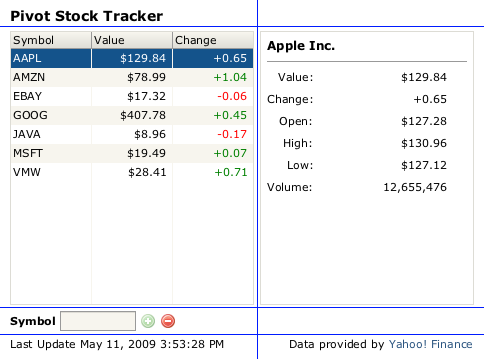
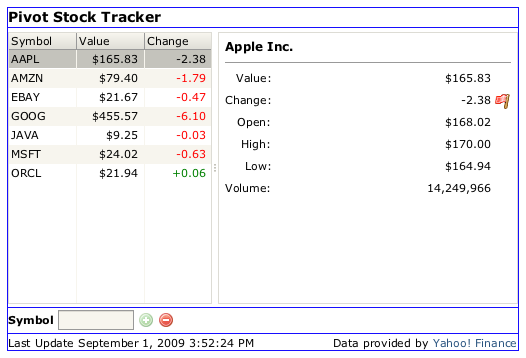
Update Stock Tracker tutorial to reflect recent changes to WTKX source.
git-svn-id: https://svn.apache.org/repos/asf/incubator/pivot/trunk@810222 13f79535-47bb-0310-9956-ffa450edef68

Changed region(s): [[0.0, 0.0, 1.0, 0.9832], [0.5269, 0.9218, 0.5579, 0.9832], [0.5269, 0.0, 0.5579, 0.0307]]

diff --git a/tutorials/www/stock_tracker.ui.template.html b/tutorials/www/stock_tracker.ui.template.html
@@ -35,7 +35,7 @@ limitations under the License.
 
 <p>The user interface of a Pivot application is often defined using XML markup rather than Java code. The hierarchical structure of an XML document more closely parallels the structure of the component hierarchy, which makes it easier to visualize the resulting output.</p>
 
-<p>Pivot allows developers to split the definition of the user interface into multiple WTKX files. This allows each piece to vary independently and makes the overall structure easier to manage. The layout of the Stock Tracker application is divided into two WTKX documents; <tt>stocktracker.wtkx</tt>, which sets up the main structure of the application, and <tt>stocktracker.detail.wtkx</tt>, which defines the layout for the quote detail. We'll take a look at the top-level markup in <tt>stocktracker.wtkx first</tt>, concentrating on the two main page elements, <tt>TablePane</tt> and <tt>TableView</tt>. Then we'll investigate the markup for the stock quote detail, which uses the <tt>Form</tt> container and lays the ground work for the data binding support we'll discuss in a later section.</p>
+<p>Pivot allows developers to split the definition of the user interface into multiple WTKX files. This allows each piece to vary independently and makes the overall structure easier to manage. The layout of the Stock Tracker application is divided into two WTKX documents; <tt>stocktracker.wtkx</tt>, which sets up the main structure of the application, and <tt>stocktracker.detail.wtkx</tt>, which defines the layout for the quote detail. We'll take a look at the top-level markup in <tt>stocktracker.wtkx first</tt>, concentrating on the main page elements, <tt>TablePane</tt>, <tt>SplitPane</tt>, and <tt>TableView</tt>. Then we'll investigate the markup for the stock quote detail, which uses the <tt>Form</tt> container and lays the ground work for the data binding support we'll discuss in a later section.</p>
 
 <h2>TablePane</h2>
 
@@ -44,23 +44,32 @@ limitations under the License.
 <p>Like HTML tables, <tt>TablePane</tt> contents are organized into rows and columns. Unlike HTML, however, which may attempt to infer a table structure from its contents, a table pane's structure must be explicitly defined, as shown below:</p>
 
 <pre class="snippet">
-&lt;TablePane styles="{padding:8, horizontalSpacing:6}"&gt;
+&lt;TablePane styles="{padding:8, horizontalSpacing:6, verticalSpacing:6}"&gt;
     &lt;columns&gt;
-        &lt;TablePane.Column width="244"/&gt;
-        &lt;TablePane.Column width="1*"/&gt;
+        &lt;TablePane.Column width="1*" /&gt;
     &lt;/columns&gt;
+
     &lt;rows&gt;
         &lt;TablePane.Row height="-1"&gt;
-        ...
+            &lt;Label ... /&gt;
         &lt;/TablePane.Row&gt;
+
         &lt;TablePane.Row height="1*"&gt;
-        ...
+            &lt;SplitPane splitRatio="0.4"&gt;
+            ...
+            &lt;/SplitPane&gt;
         &lt;/TablePane.Row&gt;
+
         &lt;TablePane.Row height="-1"&gt;
-        ...
+            &lt;BoxPane ... &gt;
+            ...
+            &lt;/BoxPane&gt;
         &lt;/TablePane.Row&gt;
+
         &lt;TablePane.Row height="-1"&gt;
-        ...
+            &lt;TablePane&gt;
+            ...
+            &lt;/TablePane&gt;
         &lt;/TablePane.Row&gt;
     &lt;/rows&gt;
 &lt;/TablePane&gt;
@@ -74,7 +83,7 @@ limitations under the License.
 <li><p>A number followed by an asterisk specifies a relative size; the width or height is determined by applying a weighted percentage of the space left over after subtracting the width or height of all automatic and absolute columns and rows (which may be 0).</p></li>
 </ul>
 
-<p>In the example above, the second row is given a relative height that will assign it all of the available space once the other rows are accounted for; all other rows are given an automatic height. The first column is given an explicit width of 244 pixels, and the second column is given 100% of the remaining width.</p>
+<p>In the example above, the single column will be given 100% of the width allocated to the <tt>TablePane</tt>. The heights of rows 1, 3, and 4 will be determined automatically based on the preferred heights of their contents, and the second row will be given 100% of the vertical space left over after the other rows are accounted for.</p>
 
 <p>The following graphic shows the resulting layout (the blue lines represent the table cell boundaries):</p>
 
@@ -99,6 +108,26 @@ The actual content of a table pane is specified in the <tt><rows></tt> element. 
 </pre>
 
 <p>Note the use of the percent symbol in the text attribute value. This tells the WTKX component loader that the value of the label's text property should be provided by a string resource with the specified name, minus the percent sign. This is discussed in more detail in the Localization section.</p>
+
+<h2>SplitPane</h2>
+<p>The <tt>SplitPane</tt> container is used to divide an area into two resizable regions. Split panes can be either vertical or horizontal (the default). Vertical split panes contain top and bottom components, and horizontal split panes contain left and right components, as shown below:
+
+<pre class="snippet">
+&lt;SplitPane splitRatio="0.4"&gt;
+    &lt;left&gt;
+        &lt;Border styles="{padding:0, color:10}"&gt;
+        ...
+        &lt;/Border&gt;
+    &lt;/left&gt;
+    &lt;right&gt;
+        &lt;Border styles="{padding:6, color:10}"&gt;
+        ...
+        &lt;/Border&gt;
+    &lt;/right&gt;
+&lt;/SplitPane&gt;
+</pre>
+
+<p>In this example, both the left and right components are instances of the <tt>Border</tt> class.  Since split panes themselves don't draw any kind of divider, borders are often used to delineate content boundaries. Given a split ratio value of 0.4, as shown, the left side of the split pane will initially be allocated 40% of the split pane's width, and the right side will receive 60%.</p>
 
 <h2>TableView</h2>
 
@@ -139,7 +168,7 @@ The actual content of a table pane is specified in the <tt><rows></tt> element. 
 
 <p>The application defines three columns for the table view: one for the stock ticker symbol, another for the stock's current value, and a third for the change percentage. The name attribute defines the name of the column. It is not visible to the user, but is used as a key to map values in each row to their appropriate place in the table view; the value of the headerData attribute is what is actually shown to the user in the table view header. Note that the header data for each column is specified as a resource name so the header text can be localized.</p>
 
-<p>The width of each column in this example is set to an absolute value of 80 pixels. Table view columns can also be assigned a relative width, but they do not support the automatic widths supported by the TablePane component.</p>
+<p>The width of each column in this example is set to a relative width of "1*". This means that each column will be allocated one third of the total width of the table view. Like <tt>TablePane</tt>, <tt>TableView</tt> columns can also be assigned an absolute or an automatic pixel width.</p>
 
 <p>The "value" and "change" columns define several additional attributes related to cell renderers. By default, table cells are drawn using a renderer that presents the cell's contents as a text string. Custom cell renderers can be used to present cell data formatted as a number, date, or otherwise. The Stock Tracker demo uses the built-in number cell renderer to format the value column and a custom renderer to display the values in the change column using either red or green text depending on the change direction. A complete discussion of cell renderers is outside the scope of this tutorial, but the source code for the custom renderer is as follows:</p>
 
@@ -171,7 +200,7 @@ public class ChangeCellRenderer extends TableViewNumberCellRenderer {
 
 <h3>TableViewHeader</h3>
 
-<p>Pivot's <tt>TableView</tt> component does not include built-in header support; rather, support for column headings and resizing is provided by a separate <tt>TableViewHeader</tt> component. This is because <tt>TableView</tt> (and other similar components including <tt>ListView</tt> and <tt>TreeView</tt>) do not include built-in support for scrolling. Scrolling is provided by the <tt>ScrollPane</tt> class, which is discussed in the next section.</p>
+<p>Pivot's <tt>TableView</tt> component does not include built-in header support; rather, support for column headings and resizing is provided by a separate <tt>TableViewHeader</tt> component. This is because <tt>TableView</tt> (and other similar components including <tt>ListView</tt> and <tt>TreeView</tt>) do not include built-in support for scrolling. Scrolling is provided by the <tt>ScrollPane</tt> class, discussed below.</p>
 
 <p><img src="stock_tracker/table_view.png"></p>
 <p class="caption">Stock Tracker table view and table view header.</p>
@@ -179,14 +208,18 @@ public class ChangeCellRenderer extends TableViewNumberCellRenderer {
 <p>The following markup is used to declare the table view header component for the Stock Tracker demo:</p>
 
 <pre class="snippet">
-&lt;TableViewHeader tableView="$stocksTableView"/&gt;
+&lt;TableViewHeader tableView="$stocksTableView"&gt;
+    &lt;tableViewHeaderPressListeners&gt;
+        &lt;TableView.SortHandler/&gt;
+    &lt;/tableViewHeaderPressListeners&gt;
+&lt;/TableViewHeader&gt;
 </pre>
 
 <p>That's it! The header automatically associates itself with the table view instance identified by the <tt>tableView</tt> attribute - no additional markup or coding is necessary.</p>
 
-<p>Though it is not shown in the Stock Tracker demo, TableViewHeader can also be used to provide support for column sorting. An example of this is shown in the "kitchen sink" demo application.</p>
+<p>Note that an instance of <tt>TableView.SortHandler</tt> is added as a header press listener on the table view header. This class can be used to provide default sorting behavior in response to a column header click.</p>
 
-<h3>ScrollPane and Border</h3>
+<h3>ScrollPane</h3>
 
 <p>Pivot components do not manage scrolling internally - all scrolling in Pivot is handled by the <tt>ScrollPane</tt> class (more specifically, by an instance of the <tt>Viewport</tt> class, but the distinction is not relevant to this discussion). A scroll pane provides a windowed view onto another component and allows a user to select which part of the component is shown by dragging a horizontal or vertical scroll bar.</p>
 
